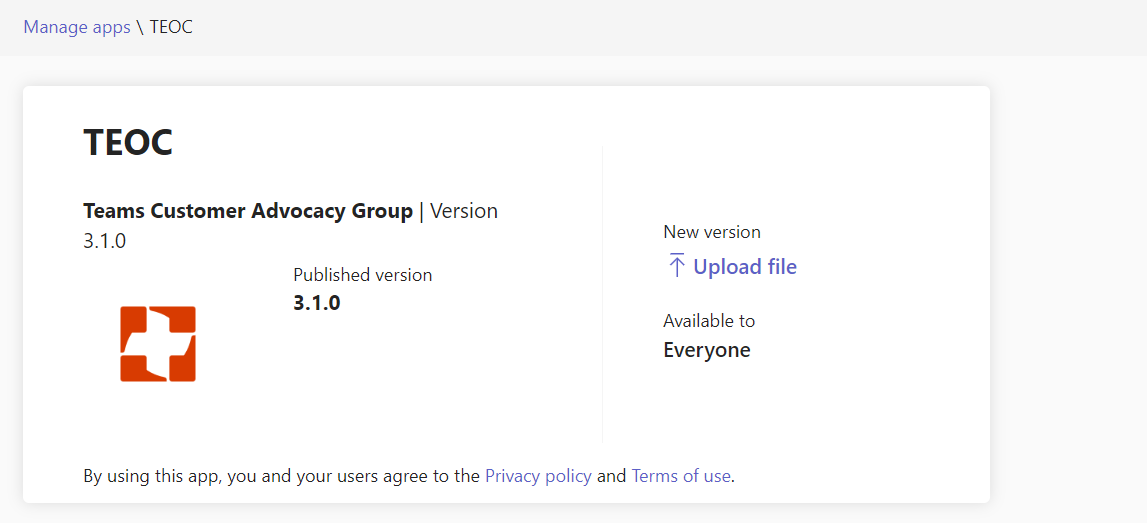
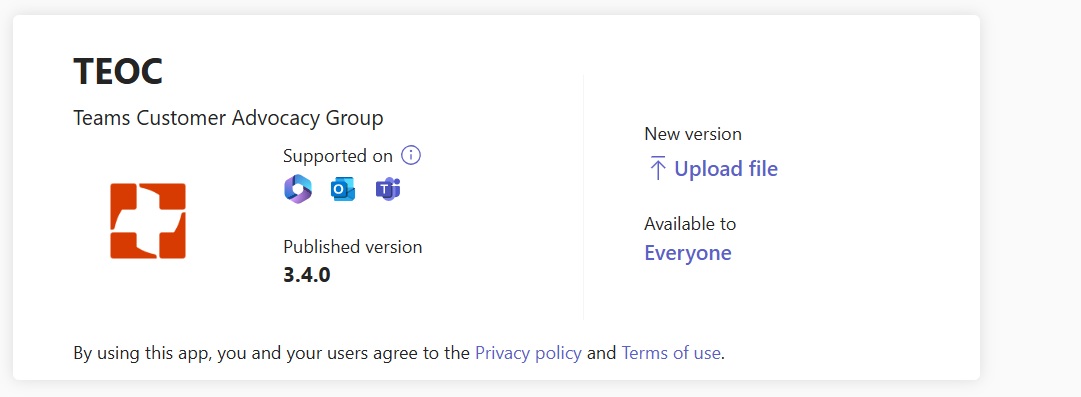
Wiki changes

diff --git a/Wiki/SolutionOverview.md b/Wiki/SolutionOverview.md
@@ -28,7 +28,7 @@
 
 ## Incident Details Dashboard
 
-1. The Dashboard shows the list of all incidents. A user can sort the incidents by "Incident Id", "Incident/ Team Name" or "Location" by clicking on the headers.
+1. The Dashboard shows the list of all incidents that the current user is part of. A user can sort the incidents by "Incident Id", "Incident/ Team Name" or "Location" by clicking on the headers.
 1. There are 4 tabs on the dashboard which shows incidents based on status. First tab shows all incidents irrespective of status and remaining 3 are Planning, Active and Closed.
 1. Users can use the search box at the top to filter out the grid based on Incident Name, Incident Commander, and Location.
 1. Users can click on **Manage** button that navigates to SharePoint lists to manage Incident Types and Roles and Admin Settings screen to configure Team Name and Enable Role Settings.
@@ -91,8 +91,10 @@ Admins can follow the steps below to enable "Map Viewer" for Incidents in the da
 
     ![TEOC Role Assignment](./Images/RoleAssignment.png)
 
-1. From Select Role dropdown, user will be able to select roles which are present by default in the system and user will be able to add users and a lead who will be performing that role in the incident. 
+1. From Select Role dropdown, user will be able to select roles which are present by default in the system and user will be able to add users and a lead who will be performing that role in the incident. M365 groups can also be added to the roles under "Assigned Users".
     > **Note: Users who are added to the role 'Secondary Incident Commanders' will be added as owners to the Incident Teams**
+    
+    > **Note: It's not recommended to add M365 groups with more than 200 users due to few limitations**
 
 1. User can additionally check "Save default users for this role" checkbox, by doing so the assigned users and role lead will be auto populated for that specific role while creating new incidents thereafter. On click of Add button, that role will be added to the Role Assignment table.
 
@@ -109,6 +111,8 @@ Admins can follow the steps below to enable "Map Viewer" for Incidents in the da
 1. Assets section provides an option to add guest users, add cloud storage location and to create/modify the additional Team Channels.
 
      ![TEOC Assest Section](./Images/AssetsSection.png)
+
+     * "Create Default Tasks" is available only in  Create Incident form. On selecting this option the default planner tasks will be created under "Tasks" section in "Active DashBoard". Admins can configure the default tasks in the "TEOC-Tasks" list in the Sharepoint site.
 
      * "Add Guest Users" is available in both Create and Edit Incident form and user can add guest users while creating or editing an incident. User can add up to 10 guest users at a time by clicking on Add More button. Once the guest users are added, it will be available in the people picker selection for the next time when the incident is edited and user can select them for any roles except Secondary Incident Commander and Incident Commander.
 
@@ -183,6 +187,8 @@ If there are any changes to the Roles, _View_ link will be available on the Role
 1. On click of "Incident Types", user will be redirected to the SharePoint list to manage the incident types.
 
 1. On click of "Roles", user will be redirected to the SharePoint list to manage the roles.
+
+1. On click of "Tasks", user will be redirected to the SharePoint list to manage the default planner tasks.
 
 1. On click of "Admin Settings", user will be redirected to the Admin Settings page. 
    * In the "Team Name Configuration" tab, user can configure the format of the Team Name. Upon saving the configuration, the incidents created/edited thereafter will have the Team Name in that newly configured format.

diff --git a/Wiki/Upgrade.md b/Wiki/Upgrade.md
@@ -1,4 +1,4 @@
-## Upgrade to v3.3  
+## Upgrade to v3.4  
 
 ### 1. Modify the column type of "Location" ( **This step is applicable only if you upgrade the app from 2.0 or older ** )
 
@@ -16,13 +16,14 @@
     
 ### 2. Run the upgrade PowerShell script ( **This step is applicable only if you upgrade the app from 1.0 or older ** )
   
-  1. Clone the [repository](https://github.com/OfficeDev/microsoft-teams-emergency-operations-center.git) locally. Open the `Deployment/provisioning/Upgrade` folder to get the latest provisioning files i.e `Update-EOC-Provision.ps1` and `Update-EOC-SiteTemplate-From-V1.0.xml` ( If you are upgrading the app from 1.0 version ) or `Update-EOC-SiteTemplate-From-V0.5.xml` ( If you are upgrading the app from 0.5 or 0.5.1 version )
+  1. Clone the [repository](https://github.com/OfficeDev/microsoft-teams-emergency-operations-center.git) locally. Open the `Deployment/provisioning/Upgrade` folder to get the latest provisioning files i.e `Update-EOC-Provision.ps1` and `Update-EOC-SiteTemplate-From-V1.0.xml` ( If you are upgrading the app from 1.0 version ) or `Update-EOC-SiteTemplate-From-V0.5.xml` ( If you are upgrading the app from 0.5 or 0.5.1 version ) or `Update-EOC-SiteTemplate-From-V2.0-Later` (If you are upgrading the app from 2.0 or later versions)
 
-  2. Run the PowerShell script (Update-EOC-Provision.ps1) as an Administrator, script will ask for below inputs:
+  2. Run the PowerShell script "Update-EOC-Provision.ps1"(commercial,GCC) or "Update-EOC-Provision-GCCH"(GCC-H) as an Administrator, script will ask for below inputs:
     
     * XML file path – enter fully qualified path of the XML file (Ex: C:\Scripts\Update-EOC-SiteTemplate-From-V1.0.xml) 
     * Tenant Name – Name of the tenant where the SharePoint site was already provisioned (Ex: Contoso)
     * SharePoint site name – Enter your existing TEOC site name (Ex: TEOCSite)
+    * AzureAppId/Client Id - Enter the App Id which you registered for Interactive login. Refer "Deployment Guide" for more details.
  
   ![Provisioning Scripts](./Images/UpgradeScript.png)
 

diff --git a/Wiki/ReleaseNotes.md b/Wiki/ReleaseNotes.md
@@ -3,6 +3,7 @@ This page contains the release information for Microsoft Teams Emergency Operati
 ## Version history
 | Version | Release Date |
 |----|----|
+| 3.4 | Mar 27, 2025 |
 | 3.3 | Nov 15, 2024 |
 | 3.2 | Sep 23, 2024 |
 | 3.1 | Jun 6, 2024 |
@@ -13,6 +14,16 @@ This page contains the release information for Microsoft Teams Emergency Operati
 | 0.5 | Mar 31, 2022 |
 
 ## Release notes
+
+### v3.4 (Mar 27, 2025)
+
+Below are the changes released with this version:
+
+- New Feature: Dashboard restricts the visibility of the incidents as per the current user. A user can see only the incidents that they are part of. 
+- New Feature: Ability to add M365 groups under roles while creating an incident. However, the recommendation is to use M365 groups with not more than 200 users due to few limitations.  
+- New Feature: Ability to select additional planner buckets while creating tasks from Active Dashboard.
+- New Feature: Ability to configure and create default tasks while creating the incident depending on the selected Incident Type   
+- Minor accessibility improvements
 
 ### v3.3 (Nov 15, 2024)
 
